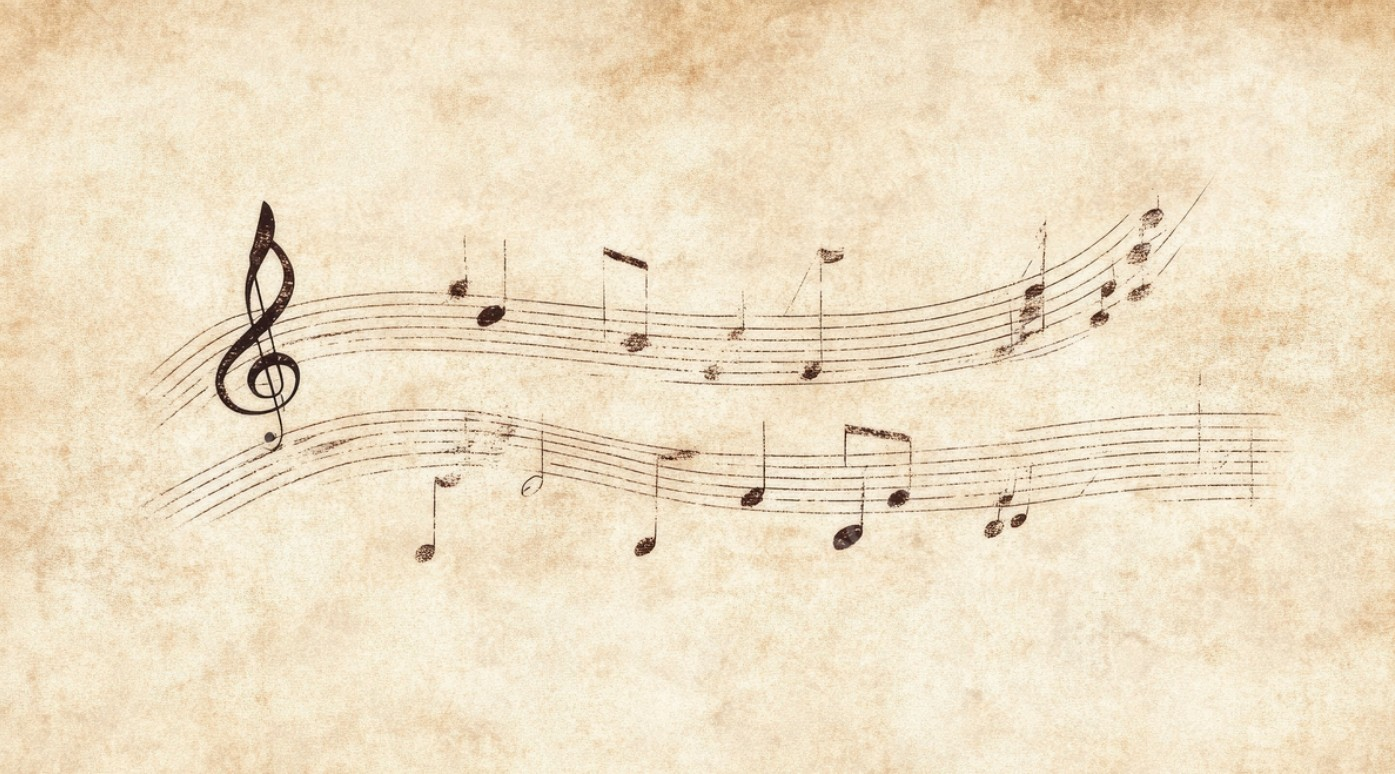
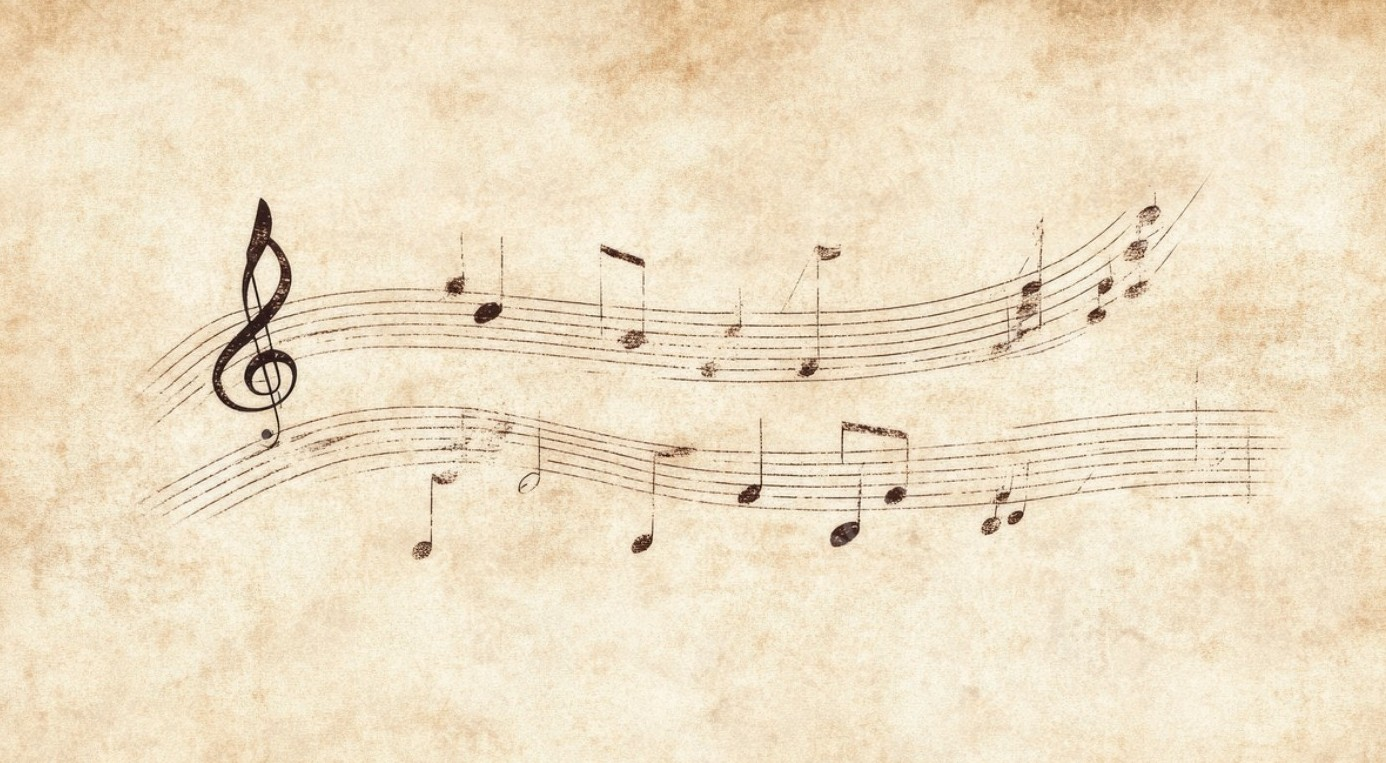
added new files on all html and css files

diff --git a/guitarpedal.html b/guitarpedal.html
@@ -1,0 +1,40 @@
+<!DOCTYPE html>
+<html lang="en">
+<head>
+  <meta charset="UTF-8">
+  <meta name="viewport" content="width=device-width, initial-scale=1.0">
+  <title>Boss ME-90 Guitar Pedal Board</title>
+  <link rel="stylesheet" href="layout/styles.css">
+</head>
+<body>
+  <header>
+    <nav class="navbar">
+      <h1 class="logo">MelodyMart</h1>
+      <ul class="nav-links">
+        <li><a href="#">Musical Instruments</a></li>
+        <li><a href="#">Studio Softwares</a></li>
+        <li><a href="#">Gear</a></li>
+        <li><a href="#">Gigs</a></li>
+        <li><a href="#">Hardware</a></li>
+      </ul>
+    </nav>
+  </header>
+
+  <main>
+    <section class="main-product">
+      <img src="images/guitarpedal.jpg" alt="Boss ME-90 Guitar Pedal Board">
+      <h2>Boss ME-90 Guitar Pedal Board</h2>
+      <p class="price">€279</p>
+      <p class="description">
+        The Boss ME-90 is a versatile multi-effects processor that offers a wide range of tones for guitarists of all levels.
+        With its user-friendly interface and high-quality sound, it's ideal for practice, studio sessions, or live gigs.
+      </p>
+      <a href="index.html" class="details-btn">← Back to Home</a>
+    </section>
+  </main>
+
+  <footer>
+    <p>&copy; 2025 MelodyMart. All rights reserved.</p>
+  </footer>
+</body>
+</html>

diff --git a/speakers.html b/speakers.html
@@ -1,0 +1,40 @@
+<!DOCTYPE html>
+<html lang="en">
+<head>
+  <meta charset="UTF-8">
+  <meta name="viewport" content="width=device-width, initial-scale=1.0">
+  <title>the box pro Achat Mobile Power MK II</title>
+  <link rel="stylesheet" href="layout/styles.css">
+</head>
+<body>
+  <header>
+    <nav class="navbar">
+      <h1 class="logo">MelodyMart</h1>
+      <ul class="nav-links">
+        <li><a href="#">Musical Instruments</a></li>
+        <li><a href="#">Studio Softwares</a></li>
+        <li><a href="#">Gear</a></li>
+        <li><a href="#">Gigs</a></li>
+        <li><a href="#">Hardware</a></li>
+      </ul>
+    </nav>
+  </header>
+
+  <main>
+    <section class="main-product">
+      <img src="images/speakers.jpg" alt="the box pro Achat Mobile Power MK II">
+      <h2>the box pro Achat Mobile Power MK II</h2>
+      <p class="price">€399</p>
+      <p class="description">
+        This portable PA speaker system is perfect for gigs, outdoor events, and mobile performances. With powerful output,
+        battery operation, and multiple inputs, it's your all-in-one sound solution on the go.
+      </p>
+      <a href="index.html" class="details-btn">← Back to Home</a>
+    </section>
+  </main>
+
+  <footer>
+    <p>&copy; 2025 MelodyMart. All rights reserved.</p>
+  </footer>
+</body>
+</html>

diff --git a/index.html b/index.html
@@ -48,6 +48,18 @@
         <a href="bassguitar.html" class="details-btn">View Details</a>
       </div>
       <div class="product">
+  <img src="images/guitarpedal.jpg" alt="Boss ME-90 Guitar Pedal Board">
+  <h3>Boss ME-90 Pedal</h3>
+  <p class="price">€279</p>
+  <a href="guitarpedal.html" class="details-btn">View Details</a>
+</div>
+<div class="product">
+  <img src="images/speakers.jpg" alt="the box pro Achat Mobile Power MK II">
+  <h3>the box pro Speakers</h3>
+  <p class="price">€399</p>
+  <a href="speakers.html" class="details-btn">View Details</a>
+</div>
+      <div class="product">
         <img src="images/microphone.jpg" alt="Shure SM58 Microphone">
         <h3>Shure SM58 Microphone</h3>
         <p class="price">€119</p>

diff --git a/layout/styles.css b/layout/styles.css
@@ -1,7 +1,7 @@
 body {
   margin: 0;
   font-family: 'Segoe UI', sans-serif, 'Brush Script MT';
-  background: url('images/music-notes-bg.jpg') repeat;
+  background: url('images/music-notes-bg.jpeg') repeat;
   background-color: #f5f0e6; /* beige base */
   color: #333;
 }
